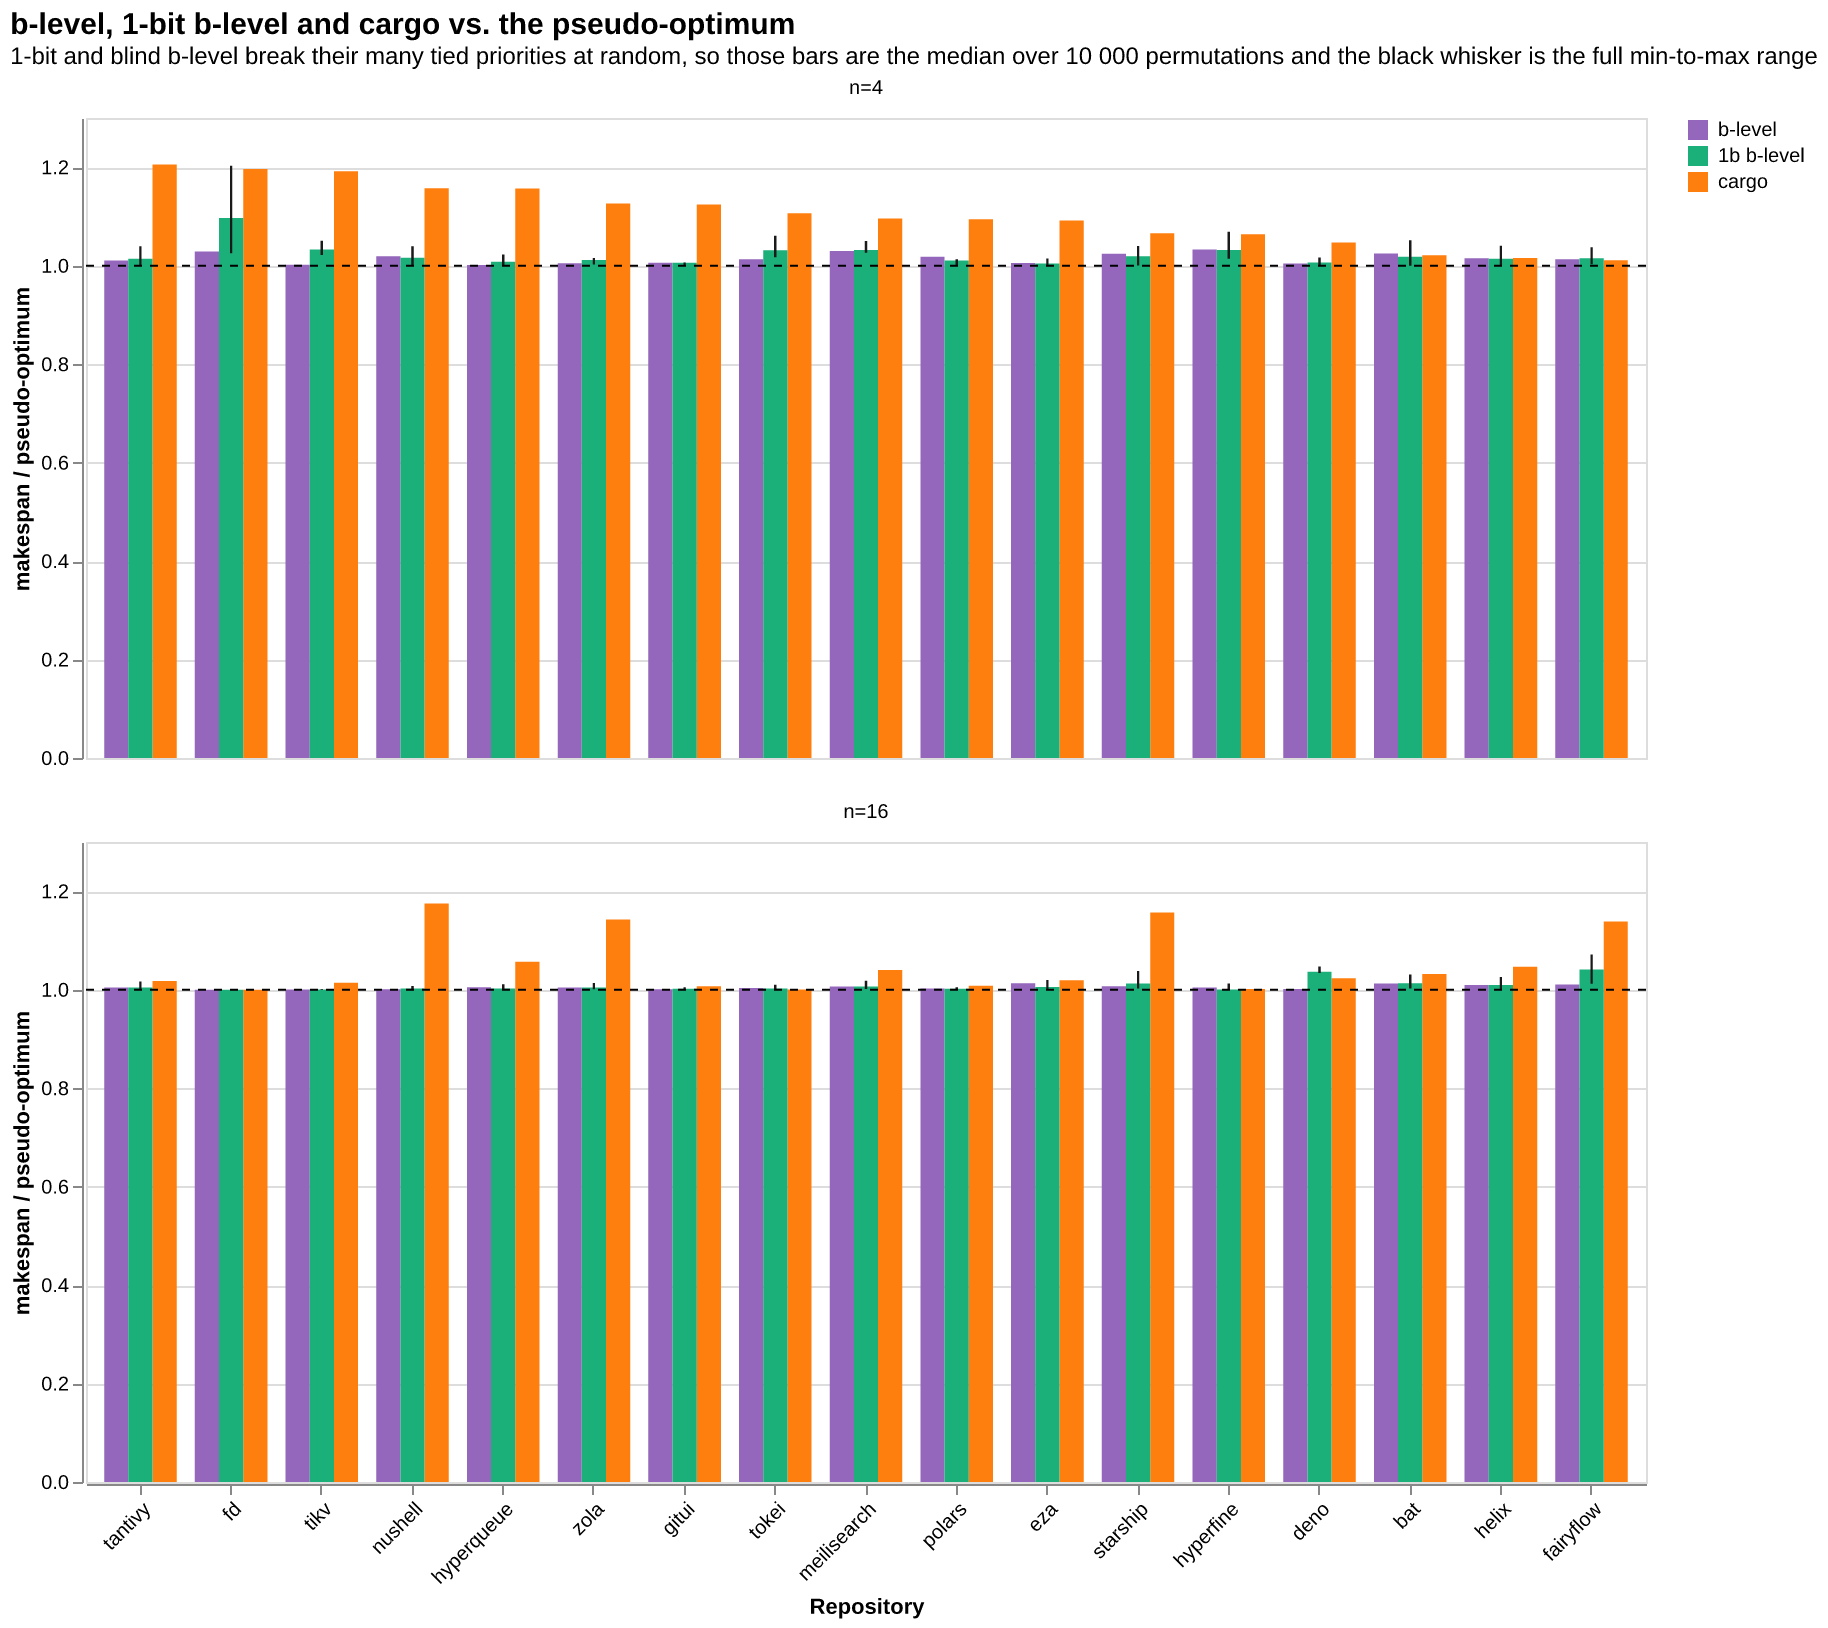
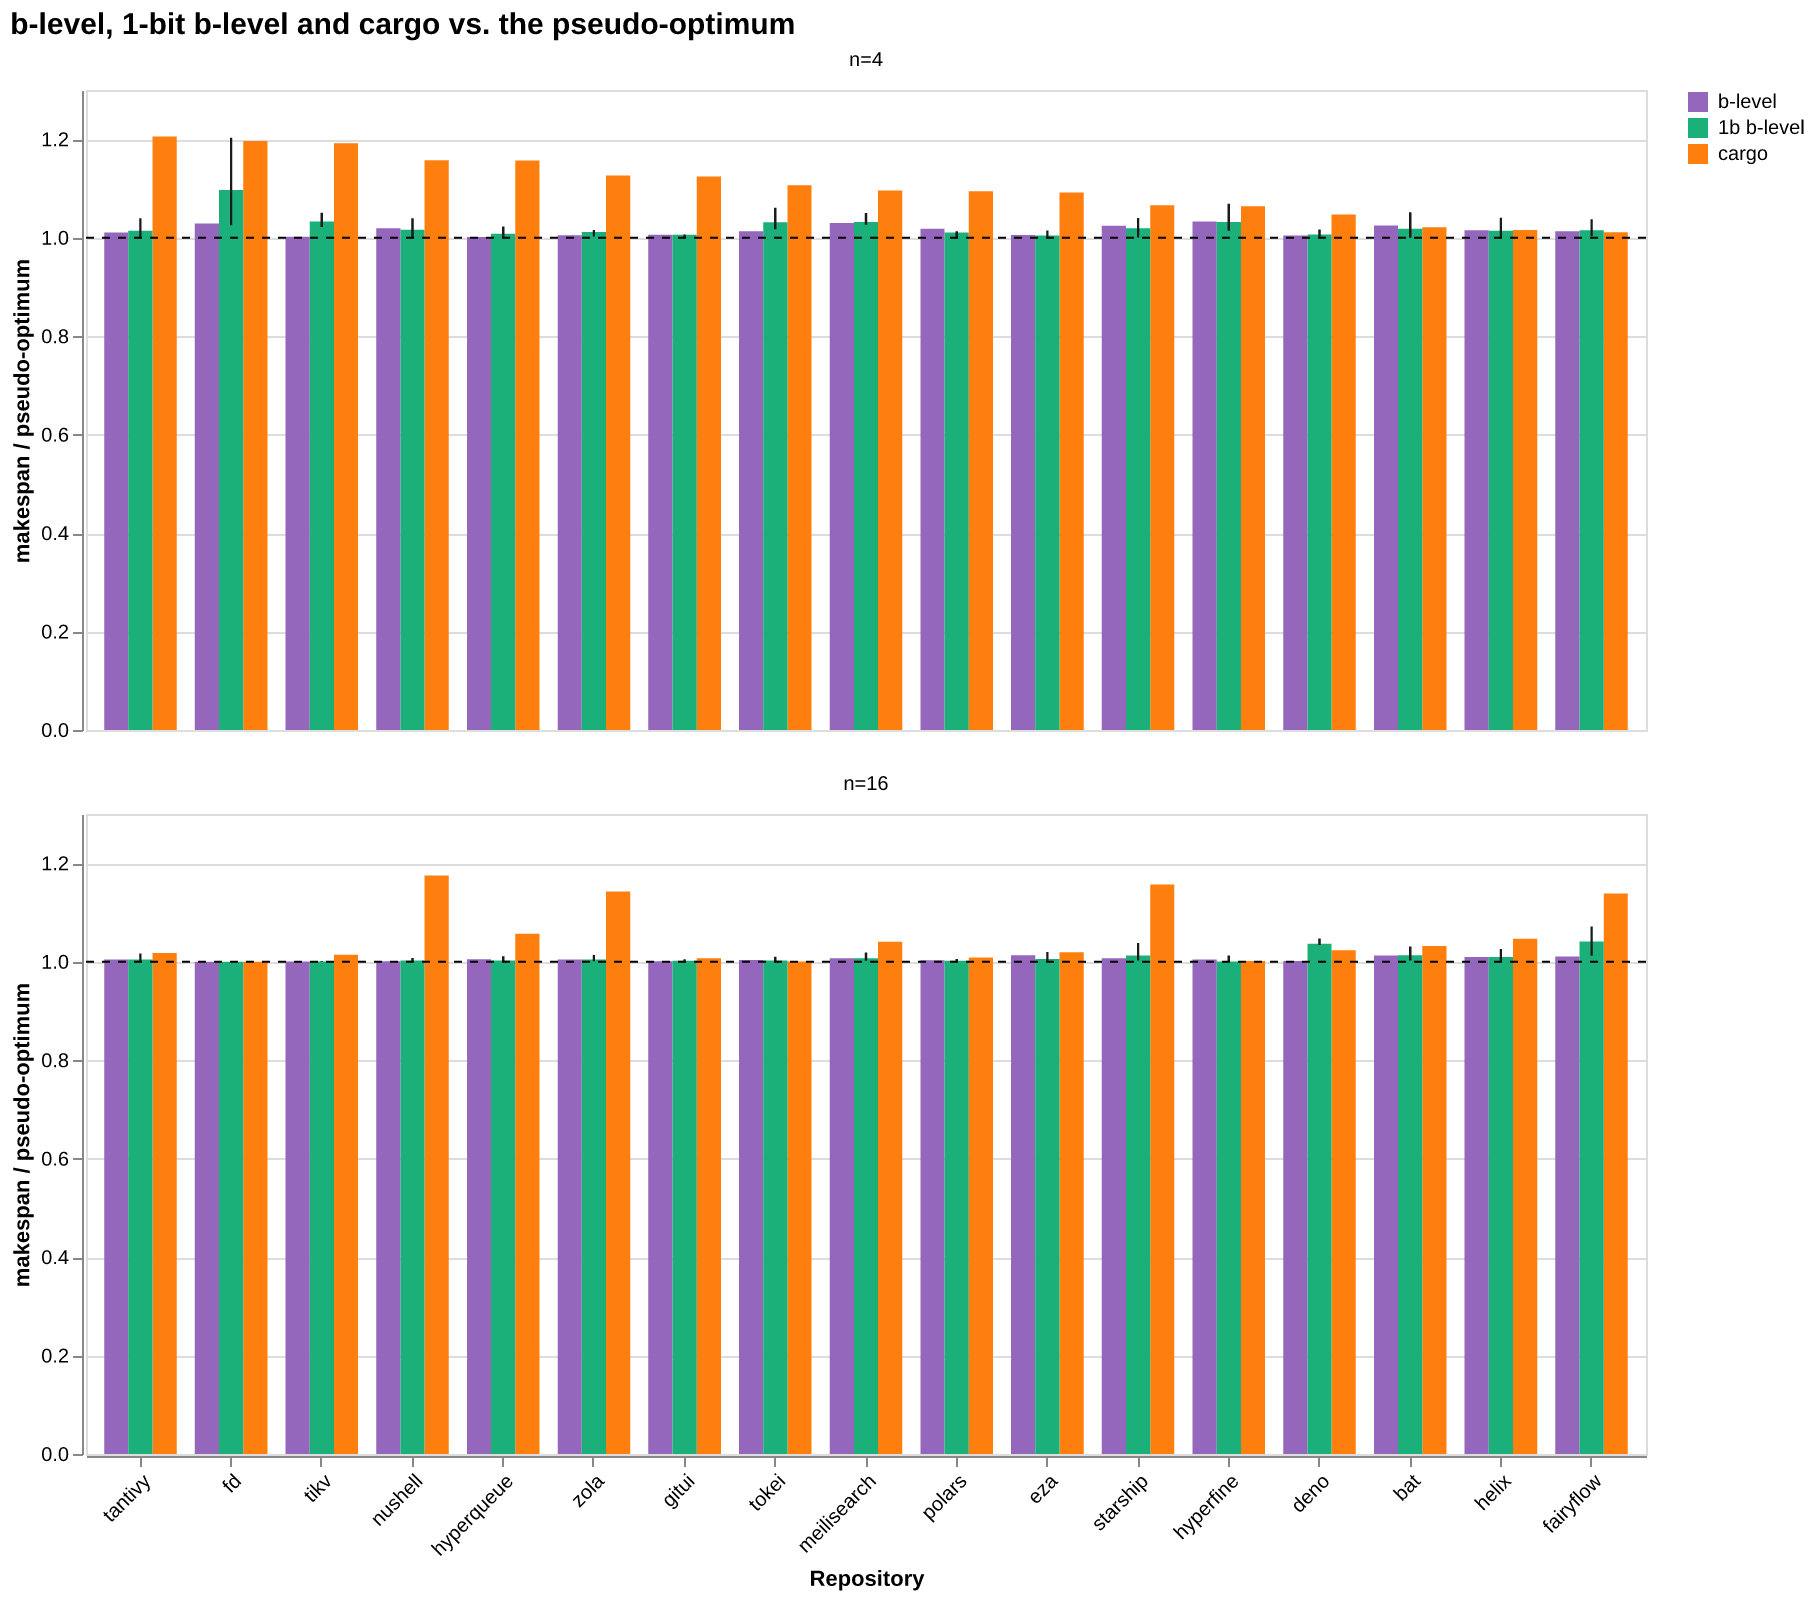
Post update

diff --git a/content/blog/cargo-scheduler/index.md b/content/blog/cargo-scheduler/index.md
@@ -79,6 +79,7 @@ But how far are we from the actual optimum? Unfortunately, this scheduling probl
 
 The chart shows b-level and cargo, both divided by the pseudo-optimum, so 1.0 means "as good as the best schedule we found". At n=4, b-level lands at a median of about 1.3% above the pseudo-optimum (worst case 3.3%), while cargo is at a median of about 9.6% above it (worst case just over 20%). At n=16, b-level is a median of 0.4% above (worst case 1.3%), cargo a median of 2.3% above (worst case as high as 17.5%). So a simple greedy heuristic that just picks the highest b-level task turns out to already be very close to what much more expensive search can find.
 
+
 ## Is it really feasible?
 
 The whole approach has one obvious problem: it assumes we know each task's execution time in advance. In reality, we don't have exact numbers; at best we have some rough, historical estimate.
@@ -160,3 +161,44 @@ And if we are just focused on mean value, then we do not need even this bit.
 That makes the whole idea rather practical. A small local database of timings from past builds should already be good enough, and it could be bootstrapped from a shared global database of crate build times, so that even the first build on a fresh machine has something to work with. Judging by the one-bit experiment, such a database would not even have to store durations; a "fast crate" / "slow crate" flag per crate is already useful. And when there is nothing to look up at all, falling back to plain graph depth seems to be a reasonable default.
 
 The other message from this is that there is probably not much left to gain from a cleverer scheduling strategy. Every simple alternative I tried was worse than plain b-level or, at best, matched it, and the expensive searches only found schedules about 1.3% (n=4) and 0.4% (n=16) better than what b-level produces straight away.
+
+## Appendix
+
+The following part reflects comments on this post on [Reddit](https://www.reddit.com/r/rust/comments/1w37hnh/could_cargos_scheduler_be_better/).
+
+In the discussion, two ways of guessing a compile time without measuring it came up: use the size of a crate's source code, or use its number of dependencies. 
+
+### Size of the source code
+
+I have tried two sizes:
+
+* Size of tarball on crates.io
+* LoC reported on crates.io + my computation of LoC that computes C, C++, assembly. The code on common paths for tests was skipped.
+
+We use these in two schedulers "size b-level" (for tarball size) and "loc b-level" where LoC of Rust code is used
+as rustc runtime estimator and the number of C/C++ lines of code is used as build.rs time estimator.
+
+
+For completeness, let us look at Rust LoC vs Rust part compile time:
+
+<p class="center">
+<img src="loc-vs-time.png" width="100%"/>
+</p>
+
+
+### Number of dependencies
+
+
+<p class="center">
+<img src="deps-vs-time.png" width="100%"/>
+</p>
+
+The spread is quite big so it is no chance to define "this crate is short" for some threshold.
+But for fun, let us include "deps b-level" where the number of dependencies is used as a time estimator.
+
+
+### Results
+
+<p class="center">
+<img src="free-estimates.png" width="100%"/>
+</p>
